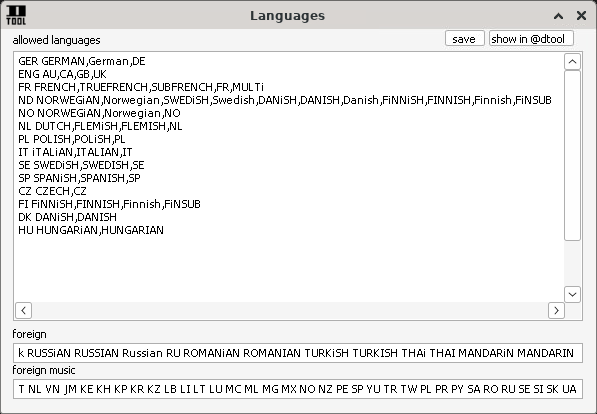
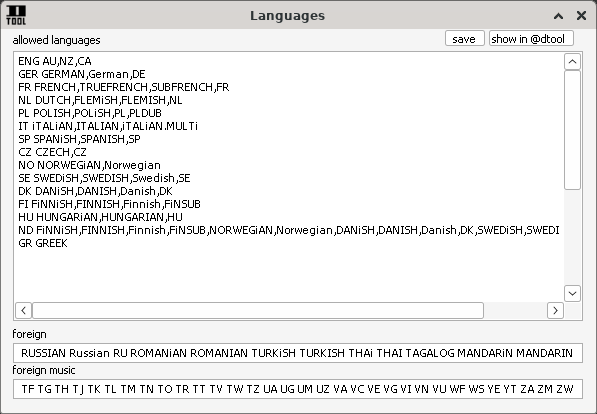
v10.4

diff --git a/Languages.html b/Languages.html
@@ -119,7 +119,9 @@ body {
         </strong><br />
         <br />
         Die Sprachen müssen manuell an die eigenen Bedürfnisse angepasst werden, dies geschieht in dem Menü Languages (Befehl /dteditlangs oder  Kontextmenü d-tool&gt;settings&gt;languages).<br />
- Das Script tradet generell englische Releases, das muss  nicht angegeben werden und ist  immer erlaubt. Alle anderen  Sprachen die man traden möchte, müssen in diese Datei eingetragen werden. <br />
+ Das Script tradet generell englische Releases (Releases ohne Sprachangabe), das muss  nicht angegeben werden und ist  immer erlaubt.<br />
+ Dies kann man erweitern indem man zB. ENG AU,CA,GB,UK eingibt. Das muss aber zwingend in der ersten Reihe der Languages Definitionen sein.<br />
+Alle anderen  Sprachen die man traden möchte, müssen danach eingetragen werden. <br />
  <br />
  <img src="Languages-Dateien/languages-menu.png" alt="" width="597" height="414" /><br />
  <br />
